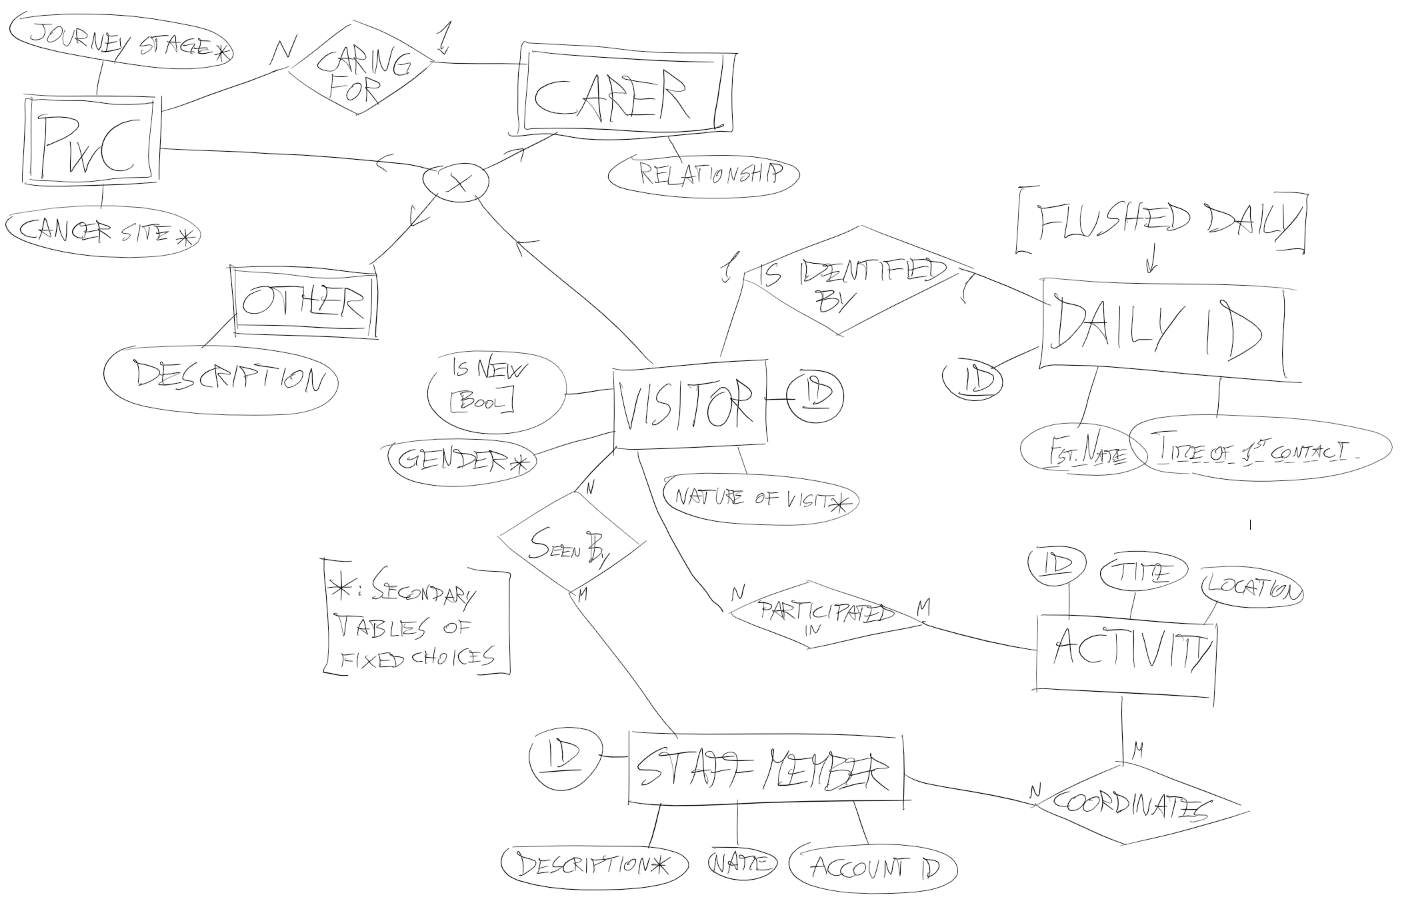
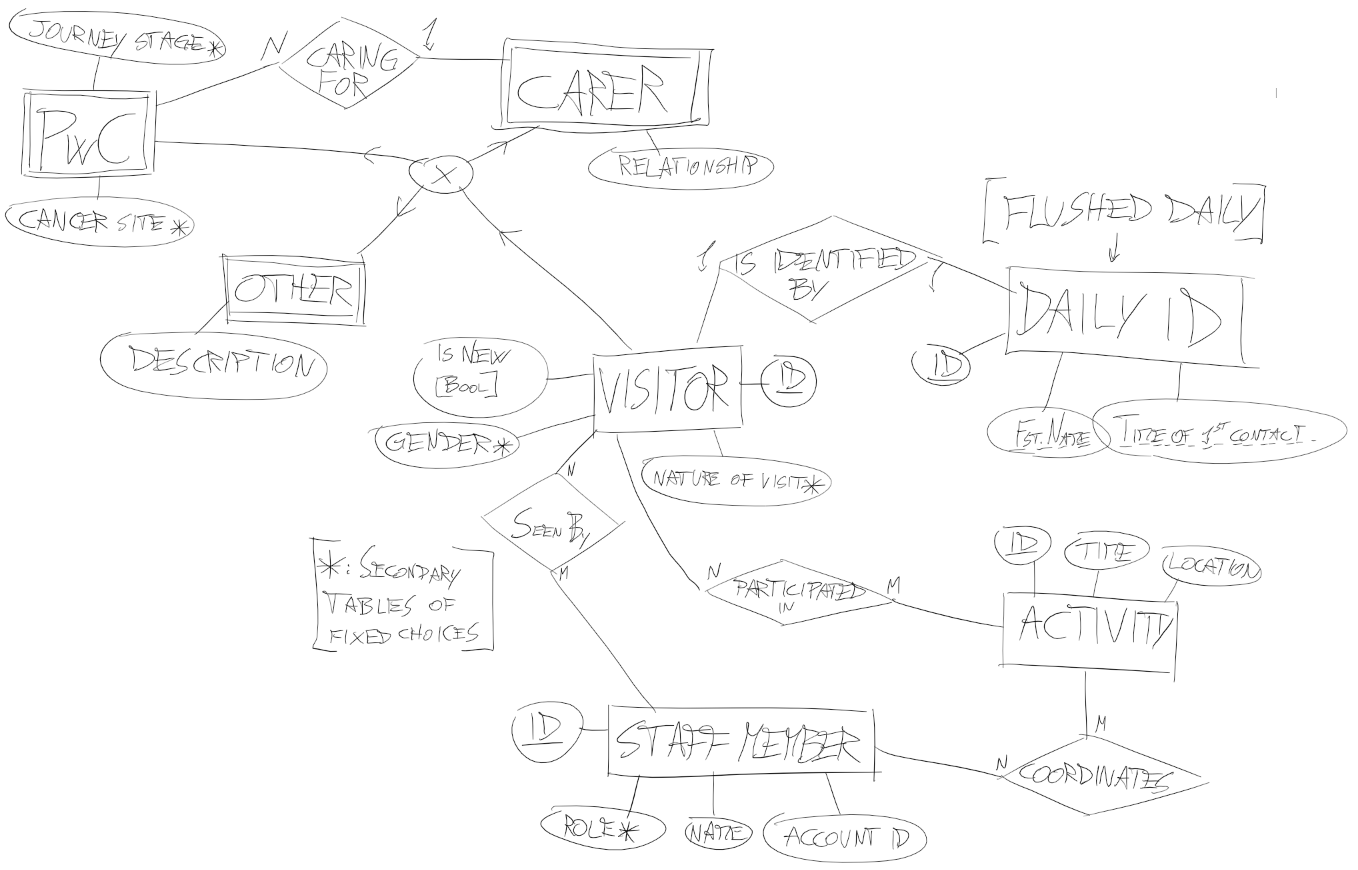
Updated ER Diagram and (not yet working) populate.py

diff --git a/maggies/populate.py b/maggies/populate.py
@@ -11,7 +11,7 @@ def populate():
     booked_nature = add_visit_nature("Booked")
     prediagnosis_stage = add_journey_stage("Pre-Diagnosis")
 
-    add_visitor(isNew=True, gender="M", cancerSite=lung_site, natureOfVisit=booked_nature)
+    add_visitor(isNew=True, gender="M", natureOfVisit=booked_nature)
 
 def add_visitor(isNew, gender, cancerSite, natureOfVisit):
     p = Visitor.objects.get_or_create(category=cat, title=title, url=url, views=views)[0]
